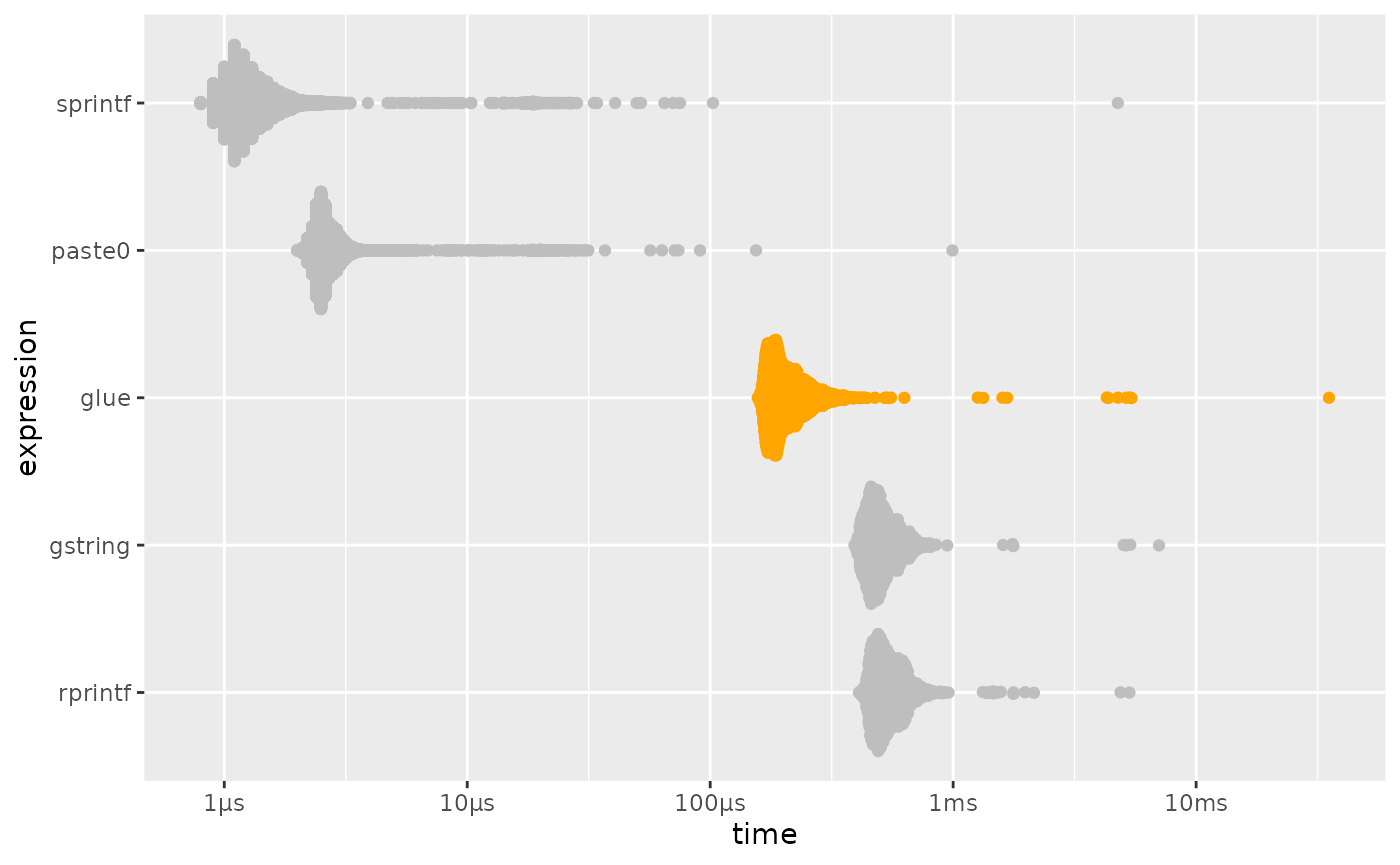
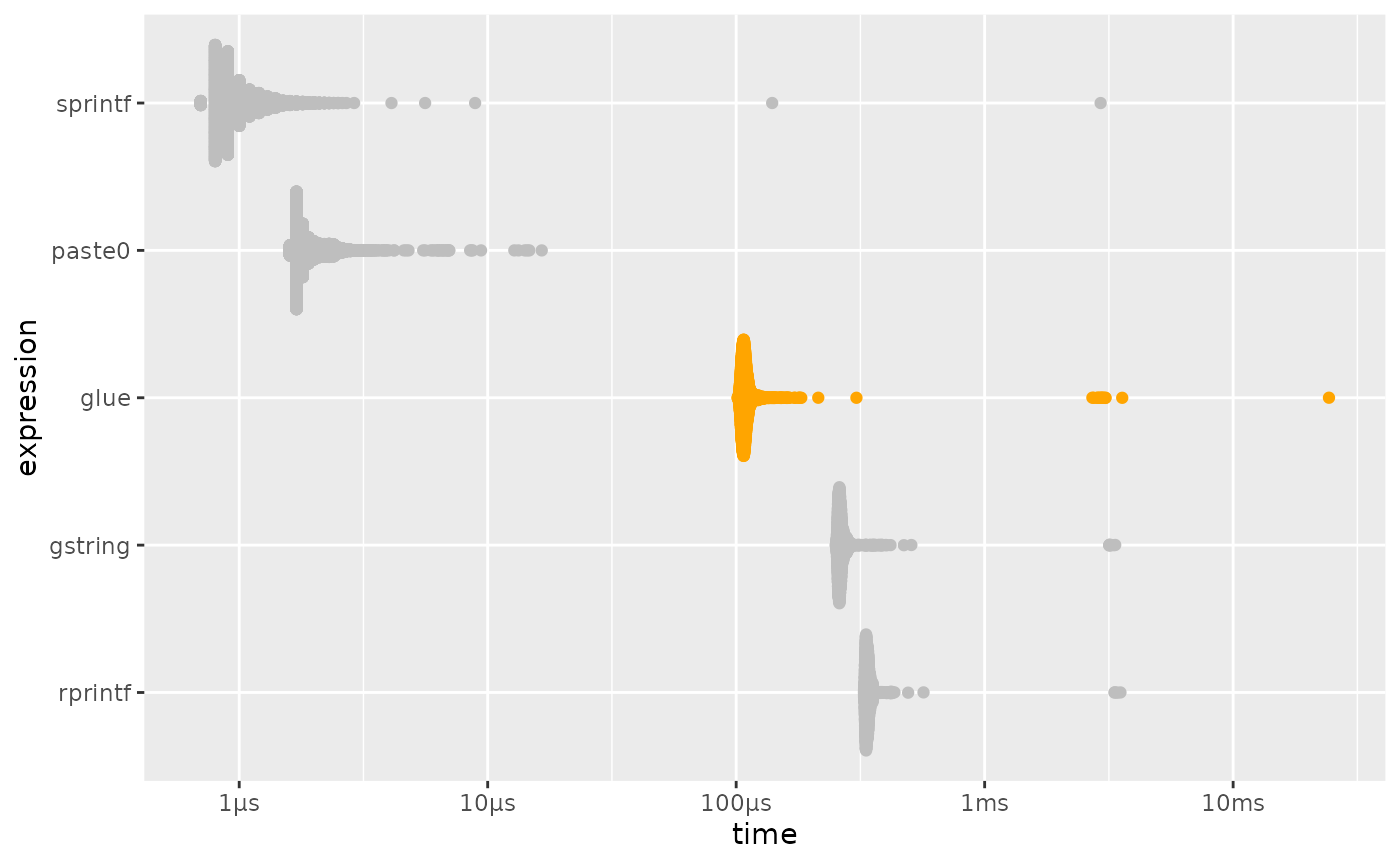
Deploying to gh-pages from @ tidyverse/glue@740ca7fd9d54d1c7570333cb255e2ee2050cd7b4 🚀

diff --git a/dev/articles/speed.html b/dev/articles/speed.html
@@ -166,11 +166,11 @@ this benchmark, but is now formally marked as “superseded”, in favor of
 <span><span class="co">#&gt; <span style="color: #949494;"># A tibble: 5 × 6</span></span></span>
 <span><span class="co">#&gt;   expression      min   median `itr/sec` mem_alloc `gc/sec`</span></span>
 <span><span class="co">#&gt;   <span style="color: #949494; font-style: italic;">&lt;bch:expr&gt;</span> <span style="color: #949494; font-style: italic;">&lt;bch:tm&gt;</span> <span style="color: #949494; font-style: italic;">&lt;bch:tm&gt;</span>     <span style="color: #949494; font-style: italic;">&lt;dbl&gt;</span> <span style="color: #949494; font-style: italic;">&lt;bch:byt&gt;</span>    <span style="color: #949494; font-style: italic;">&lt;dbl&gt;</span></span></span>
-<span><span class="co">#&gt; <span style="color: #BCBCBC;">1</span> sprintf       800ns    1.2µs   <span style="text-decoration: underline;">603</span>724.        0B    60.4 </span></span>
-<span><span class="co">#&gt; <span style="color: #BCBCBC;">2</span> paste0          2µs    2.6µs   <span style="text-decoration: underline;">321</span>445.        0B     0   </span></span>
-<span><span class="co">#&gt; <span style="color: #BCBCBC;">3</span> glue          157µs  196.2µs     <span style="text-decoration: underline;">4</span>691.  130.23KB    16.1 </span></span>
-<span><span class="co">#&gt; <span style="color: #BCBCBC;">4</span> gstring       393µs  493.1µs     <span style="text-decoration: underline;">1</span>925.    2.45MB     8.37</span></span>
-<span><span class="co">#&gt; <span style="color: #BCBCBC;">5</span> rprintf       409µs  529.2µs     <span style="text-decoration: underline;">1</span>772.   78.16KB     4.08</span></span>
+<span><span class="co">#&gt; <span style="color: #BCBCBC;">1</span> sprintf     699.9ns    900ns  1<span style="text-decoration: underline;">003</span>528.        0B   100.  </span></span>
+<span><span class="co">#&gt; <span style="color: #BCBCBC;">2</span> paste0        1.6µs    1.8µs   <span style="text-decoration: underline;">520</span>689.        0B     0   </span></span>
+<span><span class="co">#&gt; <span style="color: #BCBCBC;">3</span> glue        101.3µs  107.8µs     <span style="text-decoration: underline;">9</span>148.  130.23KB    29.6 </span></span>
+<span><span class="co">#&gt; <span style="color: #BCBCBC;">4</span> gstring     251.3µs    262µs     <span style="text-decoration: underline;">3</span>752.    2.45MB    16.9 </span></span>
+<span><span class="co">#&gt; <span style="color: #BCBCBC;">5</span> rprintf     326.8µs  337.2µs     <span style="text-decoration: underline;">2</span>939.   78.16KB     8.23</span></span>
 <span></span>
 <span><span class="co"># plotting function defined in a hidden chunk</span></span>
 <span><span class="fu">plot_comparison</span><span class="op">(</span><span class="va">simple</span><span class="op">)</span></span></code></pre></div>
@@ -213,11 +213,11 @@ performance is much closer to that of <code><a href="https://rdrr.io/r/base/past
 <span><span class="co">#&gt; <span style="color: #949494;"># A tibble: 5 × 6</span></span></span>
 <span><span class="co">#&gt;   expression      min   median `itr/sec` mem_alloc `gc/sec`</span></span>
 <span><span class="co">#&gt;   <span style="color: #949494; font-style: italic;">&lt;bch:expr&gt;</span> <span style="color: #949494; font-style: italic;">&lt;bch:tm&gt;</span> <span style="color: #949494; font-style: italic;">&lt;bch:tm&gt;</span>     <span style="color: #949494; font-style: italic;">&lt;dbl&gt;</span> <span style="color: #949494; font-style: italic;">&lt;bch:byt&gt;</span>    <span style="color: #949494; font-style: italic;">&lt;dbl&gt;</span></span></span>
-<span><span class="co">#&gt; <span style="color: #BCBCBC;">1</span> sprintf        16ms   18.4ms      54.3   781.3KB     2.01</span></span>
-<span><span class="co">#&gt; <span style="color: #BCBCBC;">2</span> paste0       17.6ms   19.2ms      51.4   781.3KB     0   </span></span>
-<span><span class="co">#&gt; <span style="color: #BCBCBC;">3</span> glue         20.2ms   22.7ms      43.8    2.29MB     4.38</span></span>
-<span><span class="co">#&gt; <span style="color: #BCBCBC;">4</span> gstring      21.2ms   23.5ms      42.4    1.53MB     2.12</span></span>
-<span><span class="co">#&gt; <span style="color: #BCBCBC;">5</span> rprintf      48.4ms   52.3ms      18.9    3.05MB     4.72</span></span>
+<span><span class="co">#&gt; <span style="color: #BCBCBC;">1</span> paste0       11.4ms   11.6ms      86.1   781.3KB     4.20</span></span>
+<span><span class="co">#&gt; <span style="color: #BCBCBC;">2</span> sprintf      12.4ms   12.5ms      79.8   781.3KB     2.05</span></span>
+<span><span class="co">#&gt; <span style="color: #BCBCBC;">3</span> gstring      15.1ms   15.2ms      64.7    1.53MB     4.32</span></span>
+<span><span class="co">#&gt; <span style="color: #BCBCBC;">4</span> glue         15.9ms   16.2ms      60.8    2.29MB     4.34</span></span>
+<span><span class="co">#&gt; <span style="color: #BCBCBC;">5</span> rprintf      37.8ms   38.1ms      26.2    3.05MB     4.77</span></span>
 <span></span>
 <span><span class="co"># plotting function defined in a hidden chunk</span></span>
 <span><span class="fu">plot_comparison</span><span class="op">(</span><span class="va">vectorized</span><span class="op">)</span></span></code></pre></div>

diff --git a/dev/news/index.html b/dev/news/index.html
@@ -66,7 +66,8 @@
 
     <div class="section level2">
 <h2 class="pkg-version" data-toc-text="development version" id="glue-development-version">glue (development version)<a class="anchor" aria-label="anchor" href="#glue-development-version"></a></h2>
-<ul><li><p><code>glue_collapse(character())</code> (and hence <code>glue_sql_collapse(character())</code>) now return <code>""</code>, so that they always return a single string (<a href="https://github.com/tidyverse/glue/issues/88" class="external-link">#88</a>).</p></li>
+<ul><li><p><code>+</code> now works in more situations, and gives errors when one side isn’t a character vector. It no longer automatically applies glue interpolation to both sides; you’ll need to do that yourself as needed (<a href="https://github.com/tidyverse/glue/issues/286" class="external-link">#286</a>).</p></li>
+<li><p><code>glue_collapse(character())</code> (and hence <code>glue_sql_collapse(character())</code>) now return <code>""</code>, so that they always return a single string (<a href="https://github.com/tidyverse/glue/issues/88" class="external-link">#88</a>).</p></li>
 <li><p><code><a href="../reference/glue_sql.html">glue_sql()</a></code> now collapses an empty vector to <code>""</code> not <code>"NULL"</code> (<a href="https://github.com/tidyverse/glue/issues/272" class="external-link">#272</a>).</p></li>
 <li><p><code><a href="../reference/glue_sql.html">glue_sql()</a></code> now uses <code><a href="https://dbi.r-dbi.org/reference/dbQuoteLiteral.html" class="external-link">DBI::dbQuoteLiteral()</a></code> for all object types. This should increase fidelity of escaping for different object types (<a href="https://github.com/tidyverse/glue/issues/279" class="external-link">#279</a>).</p></li>
 <li><p>The “Speed of glue” vignette has been converted to an article, which allows several package to be removed from <code>Suggests</code> (and re-located to <code>Config/Needs/website</code>). The code got a light refresh, including a switch from microbenchmark to bench and more modern use of ggplot2.</p></li>

diff --git a/dev/reference/as_glue.html b/dev/reference/as_glue.html
@@ -112,7 +112,7 @@ the addition operator.</p>
 <span class="r-in"><span><span class="va">x</span> <span class="op">&lt;-</span> <span class="fl">1</span></span></span>
 <span class="r-in"><span><span class="va">y</span> <span class="op">&lt;-</span> <span class="fl">3</span></span></span>
 <span class="r-in"><span><span class="fu"><a href="glue.html">glue</a></span><span class="op">(</span><span class="st">"x + y"</span><span class="op">)</span> <span class="op">+</span> <span class="st">" = {x + y}"</span></span></span>
-<span class="r-out co"><span class="r-pr">#&gt;</span> x + y = 4</span>
+<span class="r-out co"><span class="r-pr">#&gt;</span> x + y = {x + y}</span>
 </code></pre></div>
     </div>
   </main><aside class="col-md-3"><nav id="toc"><h2>On this page</h2>
